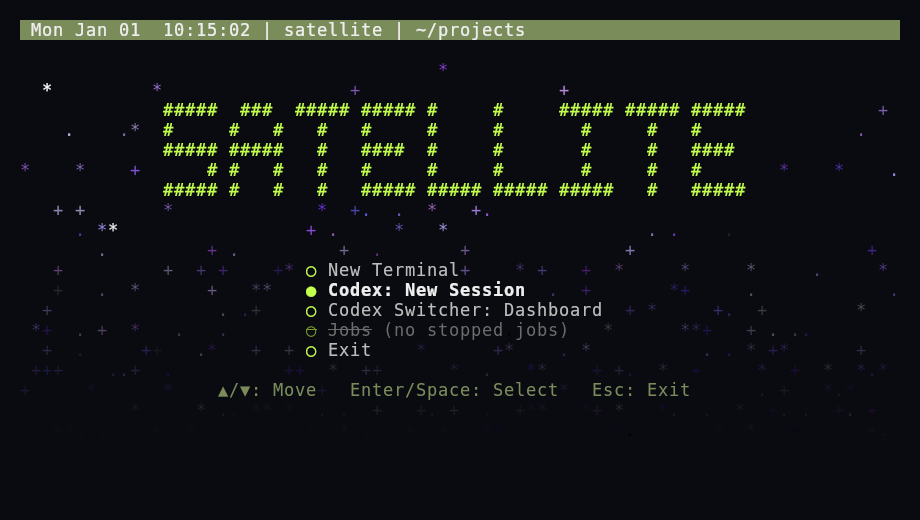
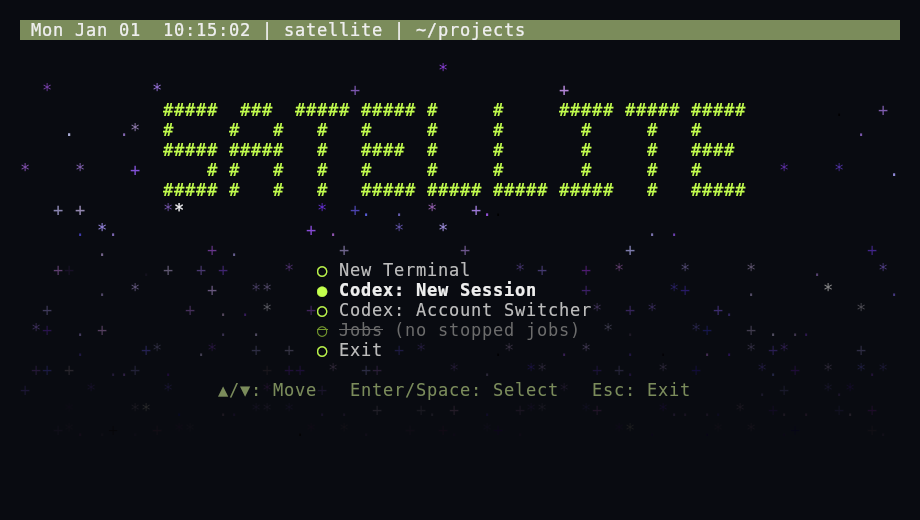
Speed up session menus and correct active-turn status

Changed region(s): [[0.3348, 0.4923, 0.6696, 0.7077], [0.0304, 0.1538, 0.0609, 0.1846]]

diff --git a/README.md b/README.md
@@ -23,8 +23,8 @@ startup
 Sourcing the file only defines commands; it does not open the menu. Bash 4+,
 `date`, `stty`, and `clear` are required. Codex sessions need `tmux` and `codex`.
 The dashboard and saved-conversation list need `codex-switcher`; `jq` enables
-their account labels and Move actions. Moving a folder across filesystems also
-needs `rsync`.
+their account labels and Move actions. Status checks use `tac`; moving a folder
+across filesystems also needs `rsync`.
 
 ## Use the menu
 
@@ -52,7 +52,7 @@ available on each screen.
   under its original account. A running turn, attached tmux session, or active
   child process disables Move. Cross-filesystem moves check free space and show
   copy progress.
-- **Codex Switcher: Dashboard** opens account monitoring and manual moves. New
+- **Codex: Account Switcher** opens account monitoring and manual moves. New
   sessions launched here run Codex using your current configuration; the
   dashboard does not choose their account.
 - **Jobs** manages stopped jobs from this shell. It is unavailable when none

diff --git a/AGENTS.md b/AGENTS.md
@@ -27,6 +27,8 @@ existing function names, and the module split (`init`, `menu`, `select`,
 - Keep inactive conversations visible across switcher accounts; preserve exact
   thread IDs and homes on Start/Move. Never terminate an unfinished turn or
   delete a conversation through the tmux Terminate action.
+- Share switcher discovery only within a menu refresh. Actions must recheck
+  current state; a visible Codex prompt does not override an unfinished rollout.
 - Keep the alternate screen, cursor, focus, and exact terminal-mode cleanup on
   return and signals. Suppress input echo throughout rendering as well as reads.
 
